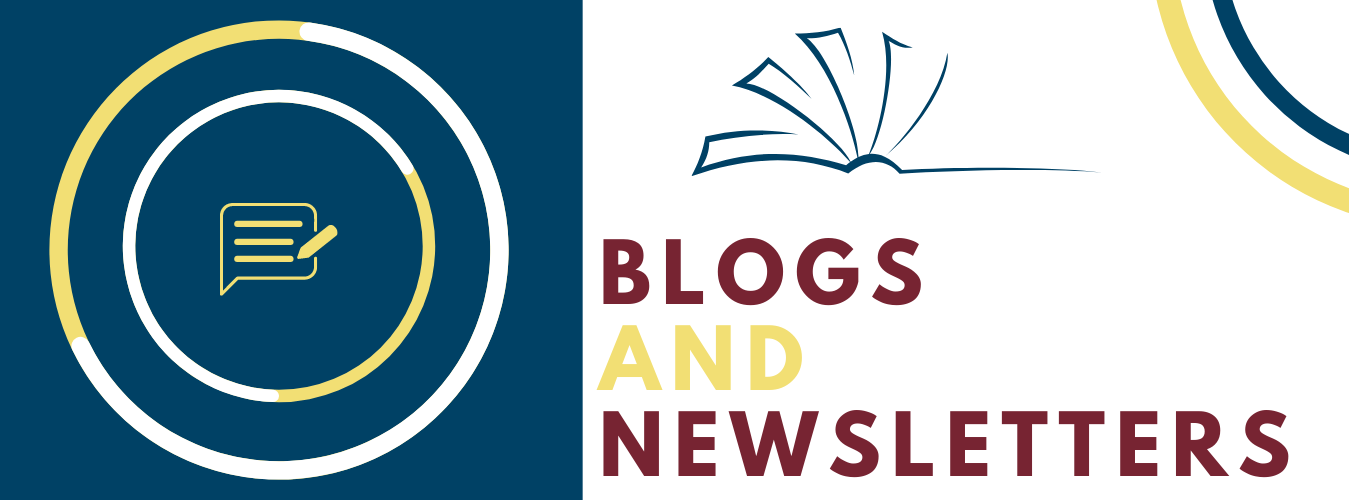
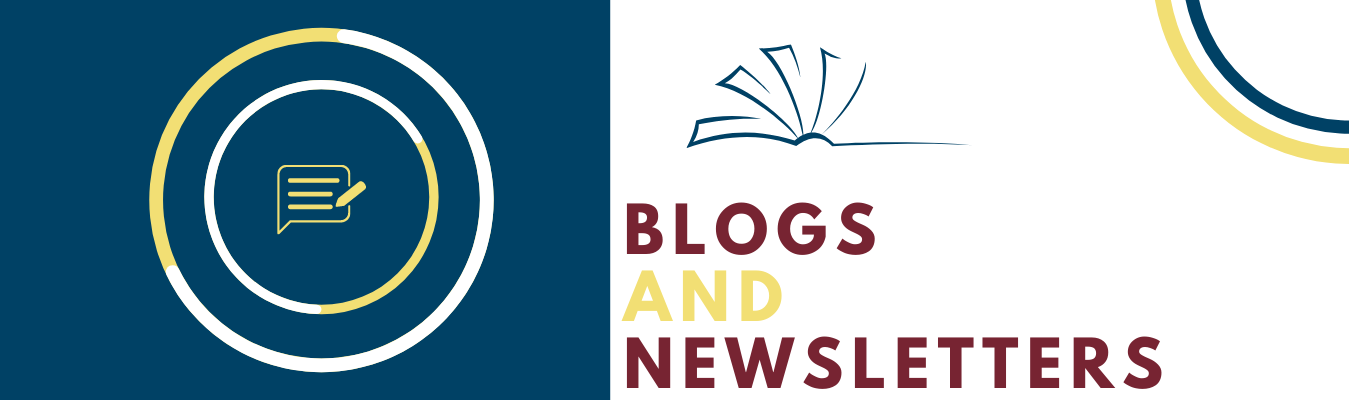
multiple changes

Changed region(s): [[0.0311, 0.0, 0.9652, 1.0], [0.4981, 0.06, 0.8095, 0.39], [0.8406, 0.0, 1.0, 0.45]]

diff --git a/blogs.html b/blogs.html
@@ -9,6 +9,14 @@
         <link rel="stylesheet" type="text/css" href="./blogs.css">
         <link href="https://fonts.googleapis.com/css2?family=Montserrat:ital,wght@0,100;0,200;0,300;0,400;0,500;0,600;0,700;0,800;0,900;1,100;1,200;1,300;1,400;1,500;1,600;1,700;1,800;1,900&family=Source+Sans+Pro:ital,wght@0,200;0,300;0,400;0,600;0,700;0,900;1,200;1,300;1,400;1,600;1,700;1,900&display=swap" rel="stylesheet">
         <link rel="stylesheet" href="https://cdn.jsdelivr.net/npm/bootstrap-icons@1.5.0/font/bootstrap-icons.css">
+        <script>
+            var myModal = document.getElementById('myModal')
+            var myInput = document.getElementById('myInput')
+
+            myModal.addEventListener('shown.bs.modal', function () {
+              myInput.focus()
+            })
+        </script>
     </head>
     <body>
         <nav id="mainNavbar" class="navbar navbar-expand-lg navbar-light navbar-scroll fixed-top">
@@ -48,12 +56,31 @@
             <h2 id="nltitle" style="color: black;">Blogs</h2>
             <hr>
             <div class="container">
-              <img id="nl" class='nl1' src="./nl2.png" alt="">
-              <img id="nl" class='nl1' src="./nl3.png" alt="">
-              <img id="nl" class='nl1' src="./nl4.png" alt="">
-              <img id="nl" class='nl1' src="./nl5.png" alt="">
+              <div class="card" style="width: 18rem;">
+                <img src="..." class="card-img-top" alt="...">
+                <div class="card-body">
+                  <h5 class="card-title">Card title</h5>
+                  <p class="card-text">Some quick example text to build on the card title and make up the bulk of the card's content.</p>
+                  <button type="button" class="btn btn-primary" data-bs-toggle="modal" data-bs-target="#exampleModal">
+                    Read
+                  </button>
+                </div>
+              </div>
             </div>
         </section>
+        <div class="modal fade" id="exampleModal" tabindex="-1" aria-labelledby="exampleModalLabel" aria-hidden="true">
+          <div class="modal-dialog modal-xl modal-dialog-scrollable">
+            <div class="modal-content">
+              <div class="modal-header">
+                <h5 class="modal-title" id="exampleModalLabel">Modal title</h5>
+                <button type="button" class="btn-close" data-bs-dismiss="modal" aria-label="Close"></button>
+              </div>
+              <div class="modal-body">
+                Lorem ipsum dolor sit amet consectetur adipisicing elit. Aliquam distinctio id ducimus hic praesentium accusantium delectus obcaecati totam eveniet recusandae impedit saepe magnam, fugit eaque voluptas maiores odio voluptate cum. Lorem ipsum dolor, sit amet consectetur adipisicing elit. Quidem necessitatibus eos deserunt odit. Nihil quasi soluta facere eligendi culpa ducimus earum temporibus praesentium tempore ipsum? Hic quisquam consectetur tempore a! Lorem ipsum dolor sit amet consectetur adipisicing elit. Qui, dignissimos nobis nostrum error exercitationem cum deserunt eaque expedita quisquam aliquid magni consectetur quo saepe, laudantium voluptatum ullam corrupti? Repellendus, a. Lorem ipsum dolor sit amet consectetur adipisicing elit. Minus nobis minima vitae illum quibusdam eaque possimus aliquid voluptatum est molestiae adipisci eum voluptas placeat, sit veniam exercitationem, aliquam molestias voluptates. Lorem ipsum, dolor sit amet consectetur adipisicing elit. Cum est placeat unde tempore sapiente facilis et in optio exercitationem, maiores quaerat sequi saepe, possimus corrupti consequatur dolore tempora, quae expedita.
+              </div>
+            </div>
+          </div>
+        </div>
           <section id="Newsletters">
               <h2 id="nltitle" style="color: black;">Newsletters</h2>
               <hr>

diff --git a/contactus.html b/contactus.html
@@ -51,6 +51,35 @@
           <header style="padding-top: 7%;">
             <img src="./Contact Us.png" alt="">
           </header>
+
+          <h2 id="contactit">In case you missed it</h2>
+            <hr>
+          <div class="container cards">
+            <div class="card" style="width: 18rem;">
+              <img src="..." class="card-img-top" alt="...">
+              <div class="card-body">
+                <h5 class="card-title">Card title</h5>
+                <p class="card-text">Some quick example text to build on the card title and make up the bulk of the card's content.</p>
+                <a href="#" class="btn btn-primary">Go somewhere</a>
+              </div>
+            </div>
+            <div class="card" style="width: 18rem;">
+              <img src="..." class="card-img-top" alt="...">
+              <div class="card-body">
+                <h5 class="card-title">Card title</h5>
+                <p class="card-text">Some quick example text to build on the card title and make up the bulk of the card's content.</p>
+                <a href="#" class="btn btn-primary">Go somewhere</a>
+              </div>
+            </div>
+            <div class="card" style="width: 18rem;">
+              <img src="..." class="card-img-top" alt="...">
+              <div class="card-body">
+                <h5 class="card-title">Card title</h5>
+                <p class="card-text">Some quick example text to build on the card title and make up the bulk of the card's content.</p>
+                <a href="#" class="btn btn-primary">Go somewhere</a>
+              </div>
+            </div>
+          </div>
           
           <div class="container">
             <h2>Find us here</h2>
@@ -90,16 +119,20 @@
 </footer>
 
 <script>
-  var mymap = L.map('mapid').setView([12.89498, 77.67575], 14);
-            L.tileLayer('https://api.mapbox.com/styles/v1/{id}/tiles/{z}/{x}/{y}?access_token=pk.eyJ1Ijoic291cmFiaHNvb3JhaiIsImEiOiJja3IyNjBybzkyNXg0Mm9xaDRzemw4NDV6In0.ilGjVfOuWIkFv_aovtJVGQ', {
-    attribution: 'Map data &copy; <a href="https://www.openstreetmap.org/copyright">OpenStreetMap</a> contributors, Imagery © <a href="https://www.mapbox.com/">Mapbox</a>',
-    maxZoom: 17,
-    id: 'mapbox/streets-v11',
-    tileSize: 512,
-    zoomOffset: -1,
-    accessToken: 'pk.eyJ1Ijoic291cmFiaHNvb3JhaiIsImEiOiJja3IyNjBybzkyNXg0Mm9xaDRzemw4NDV6In0.ilGjVfOuWIkFv_aovtJVGQ'
-}).addTo(mymap);
-var marker = L.marker([12.89498, 77.67575]).addTo(mymap);
+  var map = L.map('mapid').setView({lon: 77.67575, lat: 12.89498}, 14);
+
+// add the OpenStreetMap tiles
+L.tileLayer('https://{s}.tile.openstreetmap.org/{z}/{x}/{y}.png', {
+  maxZoom: 18,
+  attribution: '&copy; <a href="https://openstreetmap.org/copyright">OpenStreetMap contributors</a>'
+}).addTo(map);
+
+// show the scale bar on the lower left corner
+L.control.scale().addTo(map);
+
+// show a marker on the map
+L.marker({lon: 77.67575, lat: 12.89498}).bindPopup('<p style="text-align: center;"><b>Amrita School of Engineering, <br>Toastmasters Amrita Bengaluru</b></p>').addTo(map);
+
 </script>
 
 

diff --git a/index.html b/index.html
@@ -118,6 +118,46 @@
                       <hr>
                   </div>
 
+                  <div class="container">
+                      <div class="accordion" id="accordionExample">
+            <div class="accordion-item">
+              <h2 class="accordion-header" id="headingOne">
+                <button class="accordion-button" type="button" data-bs-toggle="collapse" data-bs-target="#collapseOne" aria-expanded="true" aria-controls="collapseOne">
+                  <strong>Toastmasters Leadership Institute - July 11th, 2021</strong>
+                </button>
+              </h2>
+              <div id="collapseOne" class="accordion-collapse collapse show" aria-labelledby="headingOne" data-bs-parent="#accordionExample">
+                <div class="accordion-body">
+                  Toastmasters Leadership Institute is an initiative by Toastmasters International to train the club officers of every club to become better leaders. 
+                  The District officers of each District come together along with some more amazing Toastmasters to give the newly elected club officers a bundle of information to kick start their journey of shaping the club, together as one. 
+                  This term's TLI which happened on July 11th, 2021 was an engaging and enthralling session as always, filled with a lot of insightful ideas and tips to be better leaders.
+                </div>
+              </div>
+            </div>
+            <div class="accordion-item">
+              <h2 class="accordion-header" id="headingTwo">
+                <button class="accordion-button collapsed" type="button" data-bs-toggle="collapse" data-bs-target="#collapseTwo" aria-expanded="false" aria-controls="collapseTwo">
+                  <strong>Word of the Day, Idiom of the Day</strong>  
+                </button>
+              </h2>
+              <div id="collapseTwo" class="accordion-collapse collapse" aria-labelledby="headingTwo" data-bs-parent="#accordionExample">
+                <div class="accordion-body">
+                  <strong>IOD:</strong>
+                  <br>
+                  <br>
+                  <i><strong>To get the ball rolling:</strong>    </i>To start something.
+                  <br>
+                  <br>
+                  <strong>WOD:</strong>
+                  <br>
+                  <br>
+                  <i><strong>Serendipity:</strong></i>    The occurrence and development of events by chance in a happy or beneficial way.
+                </div>
+              </div>
+            </div>
+          </div>
+                    </div>
+
                   <div class="align-items-center">
                     <h2 style="text-align: center; font-weight: 600;">Meet the Founders</h2>
                     <hr>

diff --git a/ourjourney.html b/ourjourney.html
@@ -80,12 +80,40 @@
             </h2>
             <hr>
           </section>
-          <section class="Spotlight">
+          <section class="Members">
             <h2 style="font-size: 3em; text-align: center; color: black; font-family: 'Source Sans Pro', sans-serif; font-weight: 600;">
               Spotlight
             </h2>
             <hr>
           </section>
+            <!-- <div class="container spotlights">
+              <img src="Spotlight/1st.jpeg" alt="">
+              <br>
+              <img src="Spotlight/50thpost.jpeg" alt="">
+              <img src="Spotlight/50th.jpeg" alt="">
+              <br>
+              <img src="Spotlight/100th.jpeg" alt="">
+              <img src="Spotlight/100thpost.jpeg" alt="">
+              <br>
+              <img src="Spotlight/divisionpost.jpeg" alt="">
+              <img src="Spotlight/division.jpeg" alt="">
+              <br>
+              <img src="Spotlight/rendezvous.jpeg" alt="">
+              <img src="Spotlight/rendezvouspost.jpeg" alt="">
+              <br>
+              <img src="Spotlight/linkerspost.jpeg" alt="">
+              <img src="Spotlight/linkers.jpeg" alt="">
+              <br>
+              <img src="Spotlight/3rdanniepost.jpeg" alt="">
+              <img src="Spotlight/3rdannie.jpeg" alt="">
+              <br>
+              <img src="Spotlight/100th.png" alt="">
+              <img src="Spotlight/100thpost.jpeg" alt="">
+              <br>
+              <img src="Spotlight/4thanniepost.jpeg" alt="">
+              <img src="Spotlight/4thannie.jpeg" alt="">
+            </div> -->
+          
 <footer>
     <div class="row">
         <div class="col-md-3">

diff --git a/contactus.css b/contactus.css
@@ -17,7 +17,34 @@ html{
     transition: padding 500ms;  
 }
 
-#mapid { height: 400px; width: 600px;}
+
+header img{
+  width: 100%;
+}
+
+#contactit{
+  padding-top: 3%;
+  font-family: 'Source Sans Pro', sans-serif;
+  color: black;
+      text-align: center;
+      font-size: 3em;
+}
+
+.cards{
+  display: flex;
+  flex-direction: row;
+  justify-content: space-evenly;
+}
+
+#mapid{
+  height: 50%;
+  width: 50%;
+  margin: auto; /* to center */
+  /* The height is 400 pixels */
+  /* width: 100%; */
+  /* The width is the width of the web page */
+ }
+
 
    .brtxt{
     font-family: 'Source Sans Pro', sans-serif;

diff --git a/app.css b/app.css
@@ -114,7 +114,7 @@ i{
   padding-left: 5px;
 }
 
-i:hover{
+footer i:hover{
   color: #F2DF74;
 }
 
@@ -165,6 +165,8 @@ footer p{
   width: auto;
   opacity: 92%;
 }
+
+
 
 
 #text{
@@ -222,6 +224,13 @@ section img{
 .description{
   text-align: justify;
   text-justify: inter-word;
+}
+
+.accordion{
+  text-align: justify;
+  text-justify: inter-word;
+  padding-top: 2%;
+  padding-bottom: 5%;
 }
 
 .zoomin{

diff --git a/aboutus.css b/aboutus.css
@@ -179,7 +179,7 @@ hr{
  h6{
   font-family: 'Source Sans Pro', sans-serif;
   font-weight: 600;
-  padding-top: 5px;
+  padding-top: 2px;
  }
 
  .accordion{
@@ -212,6 +212,13 @@ hr{
      text-align: center;
      font-size: 3em;
  }
+
+ 
+header img{
+  width: 100%;
+}
+
+
  
  @media only screen and (max-width: 640px) {
     .brtxt{

diff --git a/ourjourney.css b/ourjourney.css
@@ -28,6 +28,12 @@ html{
   padding-top: 25px;
 }
 
+.spotlights{
+  flex-direction: row;
+  flex-wrap: wrap;
+  justify-content: flex-start;
+}
+
 
 .navbar p:hover{
   cursor: pointer;
@@ -134,6 +140,11 @@ footer h2{
    padding-bottom: 11px;
  }
 
+
+
+header img{
+  width: 100%;
+}
 
 
  

diff --git a/blogs.css b/blogs.css
@@ -15,6 +15,16 @@ html{
     transition: padding 500ms;  
 }
 
+
+header img{
+  width: 100%;
+}
+
+.modal-body{
+  text-align: justify;
+  text-justify: inter-word;
+}
+
 .brtxt{
   font-family: 'Source Sans Pro', sans-serif;
     color: white;

diff --git a/aboutus.js b/aboutus.js
@@ -47,3 +47,5 @@ $('.iicon').click(function(){
 location.href="https://www.instagram.com/toastmastersamritabengaluru/";
 });
 
+
+
